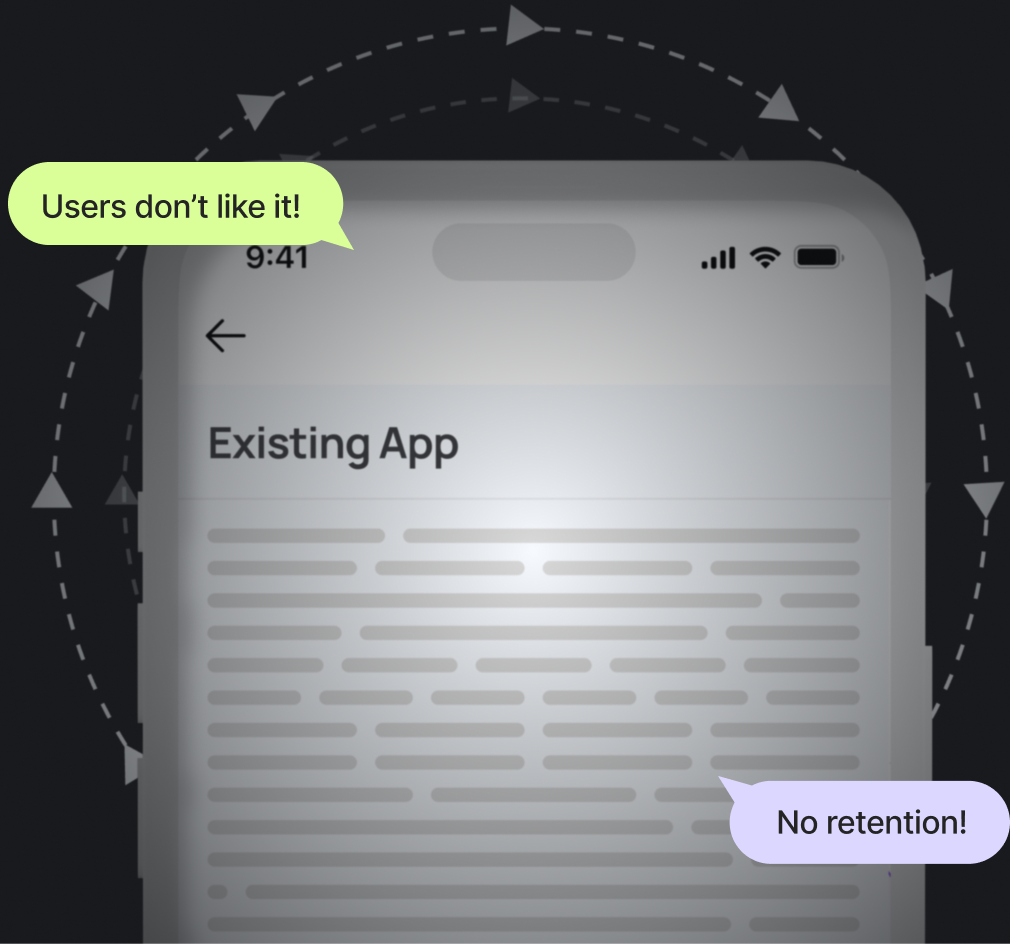
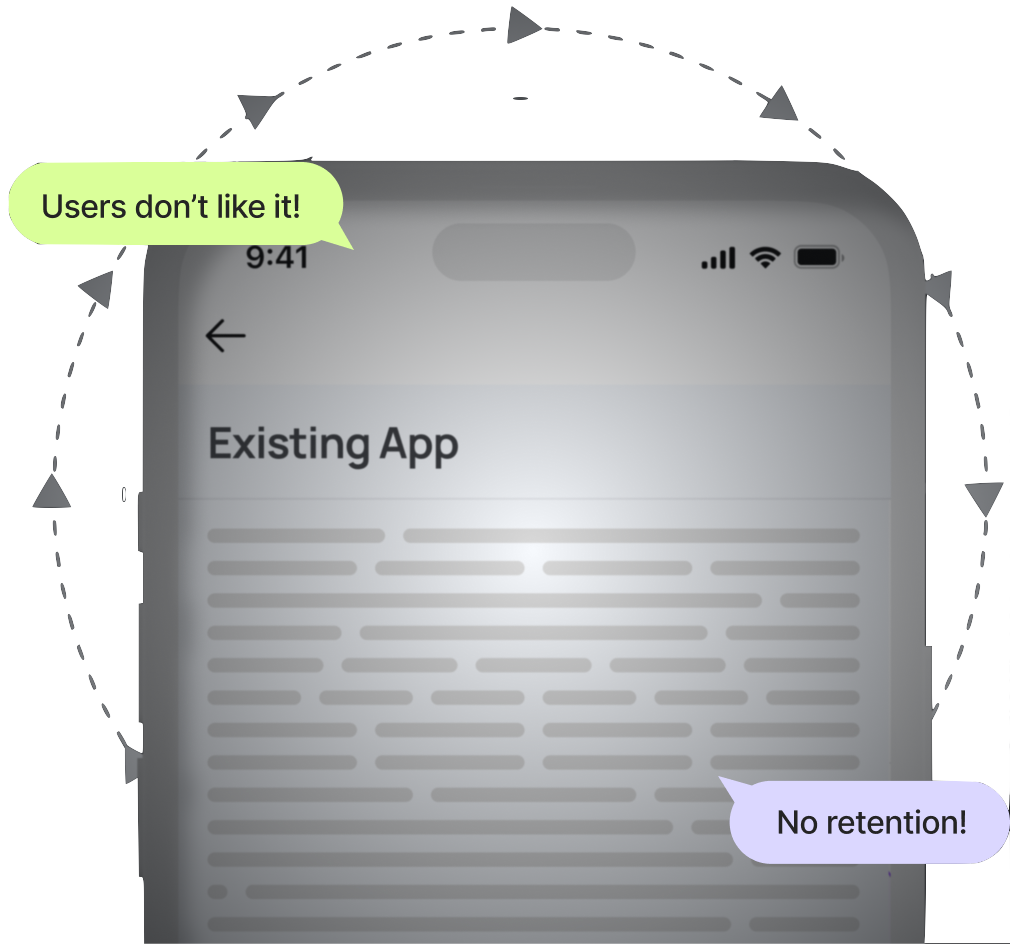
redesign hero and bg image changed

diff --git a/patterns/home-services-wrapper.php b/patterns/home-services-wrapper.php
@@ -8,5 +8,27 @@
  */
 ?>
 <!-- wp:group {"metadata":{"name":"Services Wrapper"},"style":{"spacing":{"padding":{"top":"11.25rem","bottom":"11.25rem"},"margin":{"top":"0","bottom":"0"}},"background":{"backgroundImage":{"url":"\u003c?php echo esc_url(FOCOTIK_THEME_URI) ?>assets/images/works-img-right-top.png","id":317,"source":"file","title":"works-img-right-top"},"backgroundSize":"346px","backgroundPosition":"100% 0%","backgroundRepeat":"no-repeat"}},"layout":{"type":"constrained","contentSize":"1170px"}} -->
-<div class="wp-block-group" style="margin-top:0;margin-bottom:0;padding-top:11.25rem;padding-bottom:11.25rem"><!-- wp:case-study/case-study /--></div>
+<div class="wp-block-group" style="margin-top:0;margin-bottom:0;padding-top:11.25rem;padding-bottom:11.25rem">
+    <!-- wp:group {"className":"works","layout":{"type":"default"}} -->
+    <div class="wp-block-group works"><!-- wp:group {"layout":{"type":"flex","flexWrap":"nowrap","justifyContent":"space-between"}} -->
+        <div class="wp-block-group"><!-- wp:heading {"level":3,"className":"main-heading","style":{"color":{"text":"#383a3e"},"elements":{"link":{"color":{"text":"#383a3e"}}},"spacing":{"margin":{"top":"0"}}}} -->
+            <h3 class="wp-block-heading main-heading has-text-color has-link-color" style="color:#383a3e;margin-top:0">Intuitive works boosting <mark style="background-color:rgba(0, 0, 0, 0)" class="has-inline-color has-hover-color">conversions by 800%</mark></h3>
+            <!-- /wp:heading -->
+
+            <!-- wp:buttons -->
+            <div class="wp-block-buttons"><!-- wp:button -->
+                <div class="wp-block-button"><a class="wp-block-button__link wp-element-button" href="/contact/">Check more projects <img class="wp-image-503" style="width: 24px;" src="<?php echo esc_url(FOCOTIK_THEME_URI) ?>/assets/images/arrow.png" alt=""></a></div>
+                <!-- /wp:button -->
+            </div>
+            <!-- /wp:buttons -->
+        </div>
+        <!-- /wp:group -->
+    </div>
+    <!-- /wp:group -->
+
+    <!-- wp:spacer {"height":"24px"} -->
+    <div style="height:24px" aria-hidden="true" class="wp-block-spacer"></div>
+    <!-- /wp:spacer -->
+    <!-- wp:case-study/case-study /-->
+</div>
 <!-- /wp:group -->
